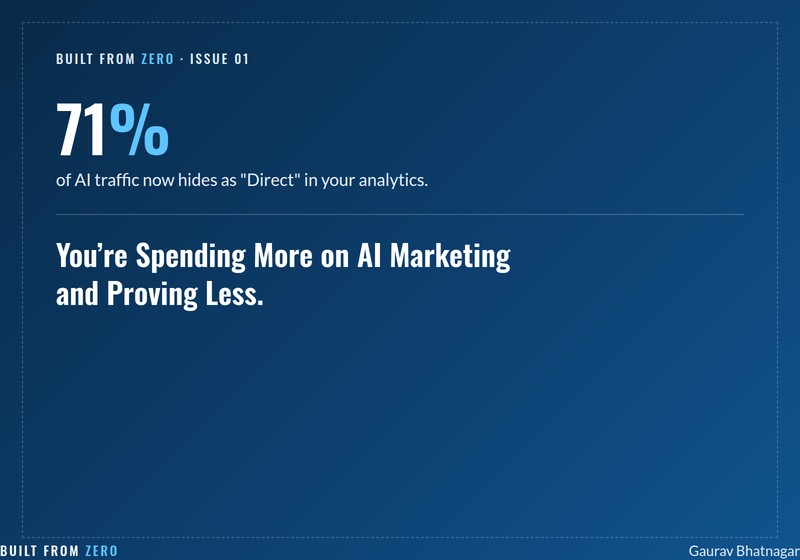
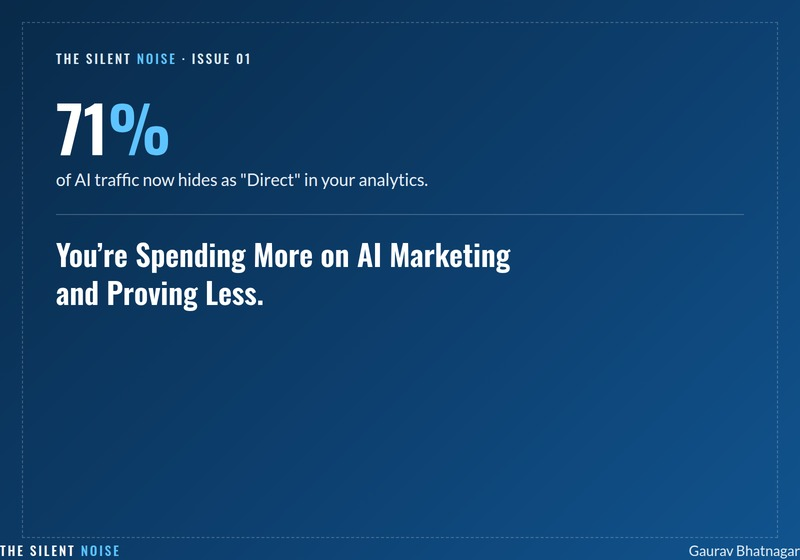
Rename newsletter to The Silent Noise
Replaced 'Built From Zero' across the site (titles, meta tags, footers, newsletter pages, archive) with the newly locked name 'The Silent Noise'. Rebuilt both issue cover images with the updated eyebrow/footer branding.

Changed region(s): [[0.0625, 0.0911, 0.3125, 0.1214], [0.0, 0.9714, 0.1562, 1.0]]

diff --git a/newsletter-issue-01-hidden-ai-traffic.html b/newsletter-issue-01-hidden-ai-traffic.html
@@ -2,7 +2,7 @@
 <html lang="en">
     <head>
         <meta charset="utf-8">
-        <title>You're Spending More on AI Marketing and Proving Less. Sound Familiar? | Built From Zero, Issue 01 | Gaurav Bhatnagar</title>
+        <title>You're Spending More on AI Marketing and Proving Less. Sound Familiar? | The Silent Noise, Issue 01 | Gaurav Bhatnagar</title>
         <meta content="width=device-width, initial-scale=1.0" name="viewport">
         <meta content="AI marketing budget vs ROI, ChatGPT referral traffic, AI-native marketing, marketing measurement, AI washing, India AI marketing" name="keywords">
         <meta content="CMOs are putting more budget into AI than ever, and proving less of what it's doing. The 2026 data on why, including the 71% of AI traffic hiding as Direct, and four moves to close the gap this quarter." name="description">
@@ -10,14 +10,14 @@
         <meta property="og:type" content="article">
         <meta property="og:site_name" content="Gaurav Bhatnagar">
         <meta property="og:title" content="You're Spending More on AI Marketing and Proving Less. Sound Familiar?">
-        <meta property="og:description" content="Built From Zero, Issue 01: why AI marketing spend is rising faster than the proof it's working, and the four moves to close that gap this quarter.">
+        <meta property="og:description" content="The Silent Noise, Issue 01: why AI marketing spend is rising faster than the proof it's working, and the four moves to close that gap this quarter.">
         <meta property="og:url" content="https://gauravbhattnagar.com/newsletter-issue-01-hidden-ai-traffic.html">
         <meta property="og:image" content="https://gauravbhattnagar.com/img/newsletter-issue-01-cover.jpg">
         <meta property="og:image:width" content="800">
         <meta property="og:image:height" content="560">
         <meta name="twitter:card" content="summary_large_image">
         <meta name="twitter:title" content="You're Spending More on AI Marketing and Proving Less. Sound Familiar?">
-        <meta name="twitter:description" content="Built From Zero, Issue 01: why AI marketing spend is rising faster than the proof it's working, and the four moves to close that gap this quarter.">
+        <meta name="twitter:description" content="The Silent Noise, Issue 01: why AI marketing spend is rising faster than the proof it's working, and the four moves to close that gap this quarter.">
         <meta name="twitter:image" content="https://gauravbhattnagar.com/img/newsletter-issue-01-cover.jpg">
 
         <!-- Favicon -->
@@ -473,7 +473,7 @@
         <!-- Issue Hero Start -->
         <div class="issue-hero mt-125">
             <div class="container">
-                <p class="issue-meta"><a href="blog.html">Built From Zero</a> &middot; Issue 01 &middot; Sep 29, 2026</p>
+                <p class="issue-meta"><a href="blog.html">The Silent Noise</a> &middot; Issue 01 &middot; Sep 29, 2026</p>
                 <div class="row align-items-center">
                     <div class="col-lg-7">
                         <h1>You're Spending More on AI Marketing and Proving Less. Sound Familiar?</h1>
@@ -763,7 +763,7 @@
                     <li><a href="https://artisancreatives.org/digital-marketing-india-2026.html" target="_blank" rel="noopener">State of digital marketing in India, 2026</a></li>
                     <li><a href="https://www.omnibound.ai/blog/marketing-attribution-statistics" target="_blank" rel="noopener">Marketing attribution statistics, 2026</a></li>
                 </ul>
-                <p class="archive-link" style="margin-top: 18px;"><a href="blog.html"><i class="fa fa-arrow-left"></i>&nbsp; Back to the Built From Zero archive</a></p>
+                <p class="archive-link" style="margin-top: 18px;"><a href="blog.html"><i class="fa fa-arrow-left"></i>&nbsp; Back to The Silent Noise archive</a></p>
             </div>
         </div>
 
@@ -847,7 +847,7 @@
                     </div>
                     <div class="col-lg-5">
                         <div class="footer-newsletter">
-                            <h2>Built From Zero</h2>
+                            <h2>The Silent Noise</h2>
                             <p>
                                 A monthly look at what's actually changing in B2B marketing and GTM, straight to your inbox.
                             </p>

diff --git a/newsletter-issue-02-fractional-cmo.html b/newsletter-issue-02-fractional-cmo.html
@@ -2,7 +2,7 @@
 <html lang="en">
     <head>
         <meta charset="utf-8">
-        <title>One in Three Companies Has No CMO Right Now. Is Yours Next? | Built From Zero, Issue 02 | Gaurav Bhatnagar</title>
+        <title>One in Three Companies Has No CMO Right Now. Is Yours Next? | The Silent Noise, Issue 02 | Gaurav Bhatnagar</title>
         <meta content="width=device-width, initial-scale=1.0" name="viewport">
         <meta content="fractional CMO, CMO tenure, marketing leadership, GTM, India CMO, interim CMO" name="keywords">
         <meta content="One in three S&amp;P 500 companies has no CMO right now, and Indian CMOs are churning out in under two years. What the 2026 data shows, and what to do about it this quarter." name="description">
@@ -10,14 +10,14 @@
         <meta property="og:type" content="article">
         <meta property="og:site_name" content="Gaurav Bhatnagar">
         <meta property="og:title" content="One in Three Companies Has No CMO Right Now. Is Yours Next?">
-        <meta property="og:description" content="Built From Zero, Issue 02: what the 2026 CMO data shows globally and in India, and the four moves to make this quarter.">
+        <meta property="og:description" content="The Silent Noise, Issue 02: what the 2026 CMO data shows globally and in India, and the four moves to make this quarter.">
         <meta property="og:url" content="https://gauravbhattnagar.com/newsletter-issue-02-fractional-cmo.html">
         <meta property="og:image" content="https://gauravbhattnagar.com/img/newsletter-issue-02-cover.jpg">
         <meta property="og:image:width" content="800">
         <meta property="og:image:height" content="560">
         <meta name="twitter:card" content="summary_large_image">
         <meta name="twitter:title" content="One in Three Companies Has No CMO Right Now. Is Yours Next?">
-        <meta name="twitter:description" content="Built From Zero, Issue 02: what the 2026 CMO data shows globally and in India, and the four moves to make this quarter.">
+        <meta name="twitter:description" content="The Silent Noise, Issue 02: what the 2026 CMO data shows globally and in India, and the four moves to make this quarter.">
         <meta name="twitter:image" content="https://gauravbhattnagar.com/img/newsletter-issue-02-cover.jpg">
 
         <!-- Favicon -->
@@ -473,7 +473,7 @@
         <!-- Issue Hero Start -->
         <div class="issue-hero mt-125">
             <div class="container">
-                <p class="issue-meta"><a href="blog.html">Built From Zero</a> &middot; Issue 02 &middot; Sep 30, 2026</p>
+                <p class="issue-meta"><a href="blog.html">The Silent Noise</a> &middot; Issue 02 &middot; Sep 30, 2026</p>
                 <div class="row align-items-center">
                     <div class="col-lg-7">
                         <h1>One in Three Companies Has No CMO Right Now. Is Yours Next?</h1>
@@ -748,7 +748,7 @@
                     <li><a href="https://www.exchange4media.com/marketing-news/the-cmo-shuffle-in-india-whats-driving-the-short-stints-146381.html" target="_blank" rel="noopener">Exchange4Media, The CMO Shuffle in India: What's Driving the Short Stints?</a></li>
                     <li><a href="https://upgrowth.in/fractional-cmo-services-in-india-complete-guide-for-2026/" target="_blank" rel="noopener">upGrowth, Fractional CMO Services in India: Complete Guide for 2026</a></li>
                 </ul>
-                <p class="archive-link" style="margin-top: 18px;"><a href="blog.html"><i class="fa fa-arrow-left"></i>&nbsp; Back to the Built From Zero archive</a></p>
+                <p class="archive-link" style="margin-top: 18px;"><a href="blog.html"><i class="fa fa-arrow-left"></i>&nbsp; Back to The Silent Noise archive</a></p>
             </div>
         </div>
 
@@ -832,7 +832,7 @@
                     </div>
                     <div class="col-lg-5">
                         <div class="footer-newsletter">
-                            <h2>Built From Zero</h2>
+                            <h2>The Silent Noise</h2>
                             <p>
                                 A monthly look at what's actually changing in B2B marketing and GTM, straight to your inbox.
                             </p>

diff --git a/blog.html b/blog.html
@@ -2,22 +2,22 @@
 <html lang="en">
     <head>
         <meta charset="utf-8">
-        <title>Built From Zero: Newsletter Archive | Gaurav Bhatnagar</title>
+        <title>The Silent Noise: Newsletter Archive | Gaurav Bhatnagar</title>
         <meta content="width=device-width, initial-scale=1.0" name="viewport">
         <meta content="B2B marketing newsletter, GTM newsletter, AI-native marketing, revenue accountability, fractional CMO newsletter" name="keywords">
-        <meta content="Built From Zero is a newsletter on B2B GTM, revenue accountability, and AI-native marketing systems." name="description">
+        <meta content="The Silent Noise is a newsletter on B2B GTM, revenue accountability, and AI-native marketing systems." name="description">
         <!-- Open Graph / Social Share -->
         <meta property="og:type" content="website">
         <meta property="og:site_name" content="Gaurav Bhatnagar">
-        <meta property="og:title" content="Built From Zero: Newsletter Archive | Gaurav Bhatnagar">
-        <meta property="og:description" content="Built From Zero is a newsletter on B2B GTM, revenue accountability, and AI-native marketing systems.">
+        <meta property="og:title" content="The Silent Noise: Newsletter Archive | Gaurav Bhatnagar">
+        <meta property="og:description" content="The Silent Noise is a newsletter on B2B GTM, revenue accountability, and AI-native marketing systems.">
         <meta property="og:url" content="https://gauravbhattnagar.com/blog.html">
         <meta property="og:image" content="https://gauravbhattnagar.com/img/hero-gaurav.jpg">
         <meta property="og:image:width" content="1672">
         <meta property="og:image:height" content="941">
         <meta name="twitter:card" content="summary_large_image">
-        <meta name="twitter:title" content="Built From Zero: Newsletter Archive | Gaurav Bhatnagar">
-        <meta name="twitter:description" content="Built From Zero is a newsletter on B2B GTM, revenue accountability, and AI-native marketing systems.">
+        <meta name="twitter:title" content="The Silent Noise: Newsletter Archive | Gaurav Bhatnagar">
+        <meta name="twitter:description" content="The Silent Noise is a newsletter on B2B GTM, revenue accountability, and AI-native marketing systems.">
         <meta name="twitter:image" content="https://gauravbhattnagar.com/img/hero-gaurav.jpg">
 
 
@@ -67,11 +67,11 @@
             <div class="container">
                 <div class="section-header">
                     <p>Newsletter</p>
-                    <h2>Built From Zero: Newsletter Archive</h2>
+                    <h2>The Silent Noise: Newsletter Archive</h2>
                 </div>
                 <div class="row">
                     <div class="col-md-10 offset-md-1">
-                        <p style="margin-bottom: 10px;">&quot;Built From Zero&quot; is the newsletter&#x27;s name. Since there wasn&#x27;t a fixed list of topics, these 7 starter issues are grounded in what&#x27;s actually current in B2B GTM as of late 2026, tied to Gaurav&#x27;s own angle (revenue accountability, AI-native systems) rather than generic listicle titles.</p>
+                        <p style="margin-bottom: 10px;">&quot;The Silent Noise&quot; is the newsletter&#x27;s name. Since there wasn&#x27;t a fixed list of topics, these 7 starter issues are grounded in what&#x27;s actually current in B2B GTM as of late 2026, tied to Gaurav&#x27;s own angle (revenue accountability, AI-native systems) rather than generic listicle titles.</p>
                     </div>
                 </div>
                 <div class="row" style="margin-top: 30px;">
@@ -274,7 +274,7 @@
                     </div>
                     <div class="col-lg-5">
                         <div class="footer-newsletter">
-                            <h2>Built From Zero</h2>
+                            <h2>The Silent Noise</h2>
                             <p>
                                 A monthly look at what's actually changing in B2B marketing and GTM, straight to your inbox.
                             </p>

diff --git a/index.html b/index.html
@@ -354,7 +354,7 @@
         <div class="blog">
             <div class="container">
                 <div class="section-header">
-                    <p>Built From Zero: the newsletter</p>
+                    <p>The Silent Noise: the newsletter</p>
                     <h2>A Monthly Look at What's Actually Changing</h2>
                 </div>
                 <p style="max-width: 700px; margin: -20px 0 30px 0;">
@@ -365,7 +365,7 @@
                         <div class="owl-carousel blog-carousel">
                             <div class="blog-item">
                                 <div class="blog-img">
-                                    <img src="img/newsletter-issue-01-cover.jpg" alt="Built From Zero, Issue 01 cover">
+                                    <img src="img/newsletter-issue-01-cover.jpg" alt="The Silent Noise, Issue 01 cover">
                                 </div>
                                 <div class="blog-content">
                                     <h2 class="blog-title">Issue 01</h2>
@@ -379,7 +379,7 @@
                             </div>
                             <div class="blog-item">
                                 <div class="blog-img">
-                                    <img src="img/newsletter-issue-02-cover.jpg" alt="Built From Zero, Issue 02 cover">
+                                    <img src="img/newsletter-issue-02-cover.jpg" alt="The Silent Noise, Issue 02 cover">
                                 </div>
                                 <div class="blog-content">
                                     <h2 class="blog-title">Issue 02</h2>
@@ -393,7 +393,7 @@
                             </div>
                             <div class="blog-item">
                                 <div class="blog-img">
-                                    <img src="img/placeholder-newsletter-3.svg" alt="Built From Zero, Issue 03 cover">
+                                    <img src="img/placeholder-newsletter-3.svg" alt="The Silent Noise, Issue 03 cover">
                                 </div>
                                 <div class="blog-content">
                                     <h2 class="blog-title">Issue 03 &middot; Coming Soon</h2>
@@ -631,7 +631,7 @@
                     </div>
                     <div class="col-lg-5">
                         <div class="footer-newsletter">
-                            <h2>Built From Zero</h2>
+                            <h2>The Silent Noise</h2>
                             <p>
                                 A monthly look at what's actually changing in B2B marketing and GTM, straight to your inbox.
                             </p>

diff --git a/contact.html b/contact.html
@@ -122,7 +122,7 @@
                                         <option value="">How did you hear about me? (optional)</option>
                                         <option value="LinkedIn">LinkedIn</option>
                                         <option value="Referral">Referral</option>
-                                        <option value="Newsletter">Newsletter (Built From Zero)</option>
+                                        <option value="Newsletter">Newsletter (The Silent Noise)</option>
                                         <option value="Search">Search engine</option>
                                         <option value="Speaking / Event">Speaking engagement or event</option>
                                         <option value="Other">Other</option>
@@ -171,7 +171,7 @@
                     </div>
                     <div class="col-lg-5">
                         <div class="footer-newsletter">
-                            <h2>Built From Zero</h2>
+                            <h2>The Silent Noise</h2>
                             <p>
                                 A monthly look at what's actually changing in B2B marketing and GTM, straight to your inbox.
                             </p>

diff --git a/about.html b/about.html
@@ -246,7 +246,7 @@
                     </div>
                     <div class="col-lg-5">
                         <div class="footer-newsletter">
-                            <h2>Built From Zero</h2>
+                            <h2>The Silent Noise</h2>
                             <p>
                                 A monthly look at what's actually changing in B2B marketing and GTM, straight to your inbox.
                             </p>

diff --git a/advisory-board-seats.html b/advisory-board-seats.html
@@ -351,7 +351,7 @@
                     </div>
                     <div class="col-lg-5">
                         <div class="footer-newsletter">
-                            <h2>Built From Zero</h2>
+                            <h2>The Silent Noise</h2>
                             <p>
                                 A monthly look at what's actually changing in B2B marketing and GTM, straight to your inbox.
                             </p>

diff --git a/faq.html b/faq.html
@@ -350,7 +350,7 @@
                     </div>
                     <div class="col-lg-5">
                         <div class="footer-newsletter">
-                            <h2>Built From Zero</h2>
+                            <h2>The Silent Noise</h2>
                             <p>
                                 A monthly look at what's actually changing in B2B marketing and GTM, straight to your inbox.
                             </p>

diff --git a/fractional-leadership.html b/fractional-leadership.html
@@ -353,7 +353,7 @@
                     </div>
                     <div class="col-lg-5">
                         <div class="footer-newsletter">
-                            <h2>Built From Zero</h2>
+                            <h2>The Silent Noise</h2>
                             <p>
                                 A monthly look at what's actually changing in B2B marketing and GTM, straight to your inbox.
                             </p>

diff --git a/gtm-consulting.html b/gtm-consulting.html
@@ -344,7 +344,7 @@
                     </div>
                     <div class="col-lg-5">
                         <div class="footer-newsletter">
-                            <h2>Built From Zero</h2>
+                            <h2>The Silent Noise</h2>
                             <p>
                                 A monthly look at what's actually changing in B2B marketing and GTM, straight to your inbox.
                             </p>

diff --git a/guest-faculty.html b/guest-faculty.html
@@ -352,7 +352,7 @@
                     </div>
                     <div class="col-lg-5">
                         <div class="footer-newsletter">
-                            <h2>Built From Zero</h2>
+                            <h2>The Silent Noise</h2>
                             <p>
                                 A monthly look at what's actually changing in B2B marketing and GTM, straight to your inbox.
                             </p>

diff --git a/independent-director.html b/independent-director.html
@@ -352,7 +352,7 @@
                     </div>
                     <div class="col-lg-5">
                         <div class="footer-newsletter">
-                            <h2>Built From Zero</h2>
+                            <h2>The Silent Noise</h2>
                             <p>
                                 A monthly look at what's actually changing in B2B marketing and GTM, straight to your inbox.
                             </p>
